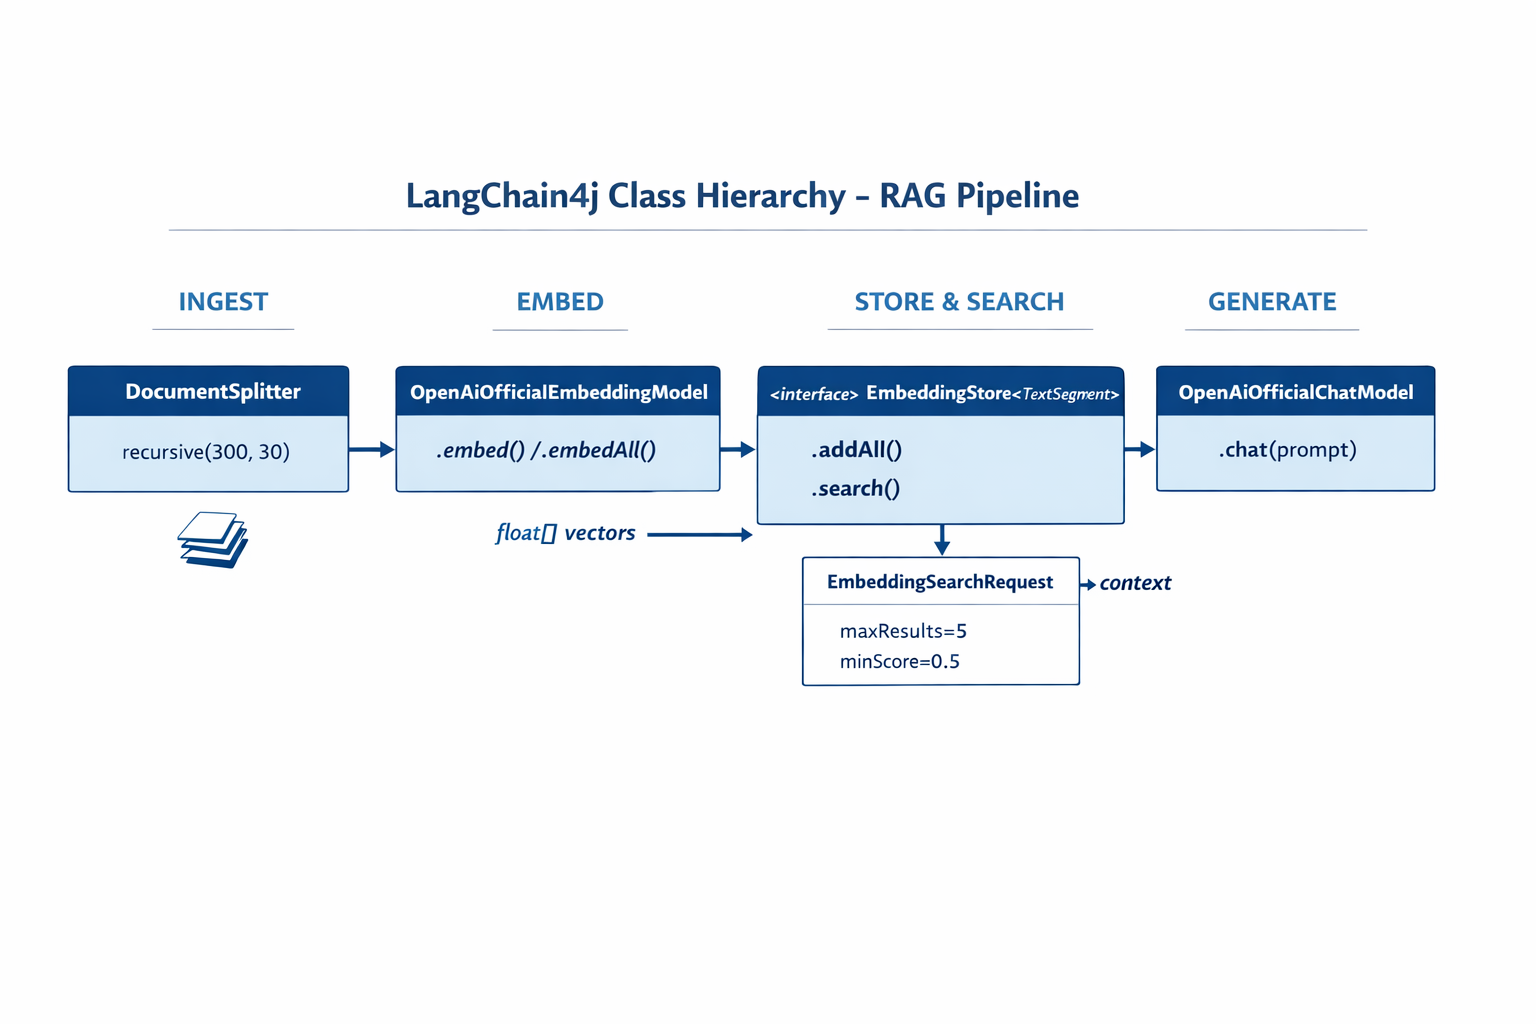
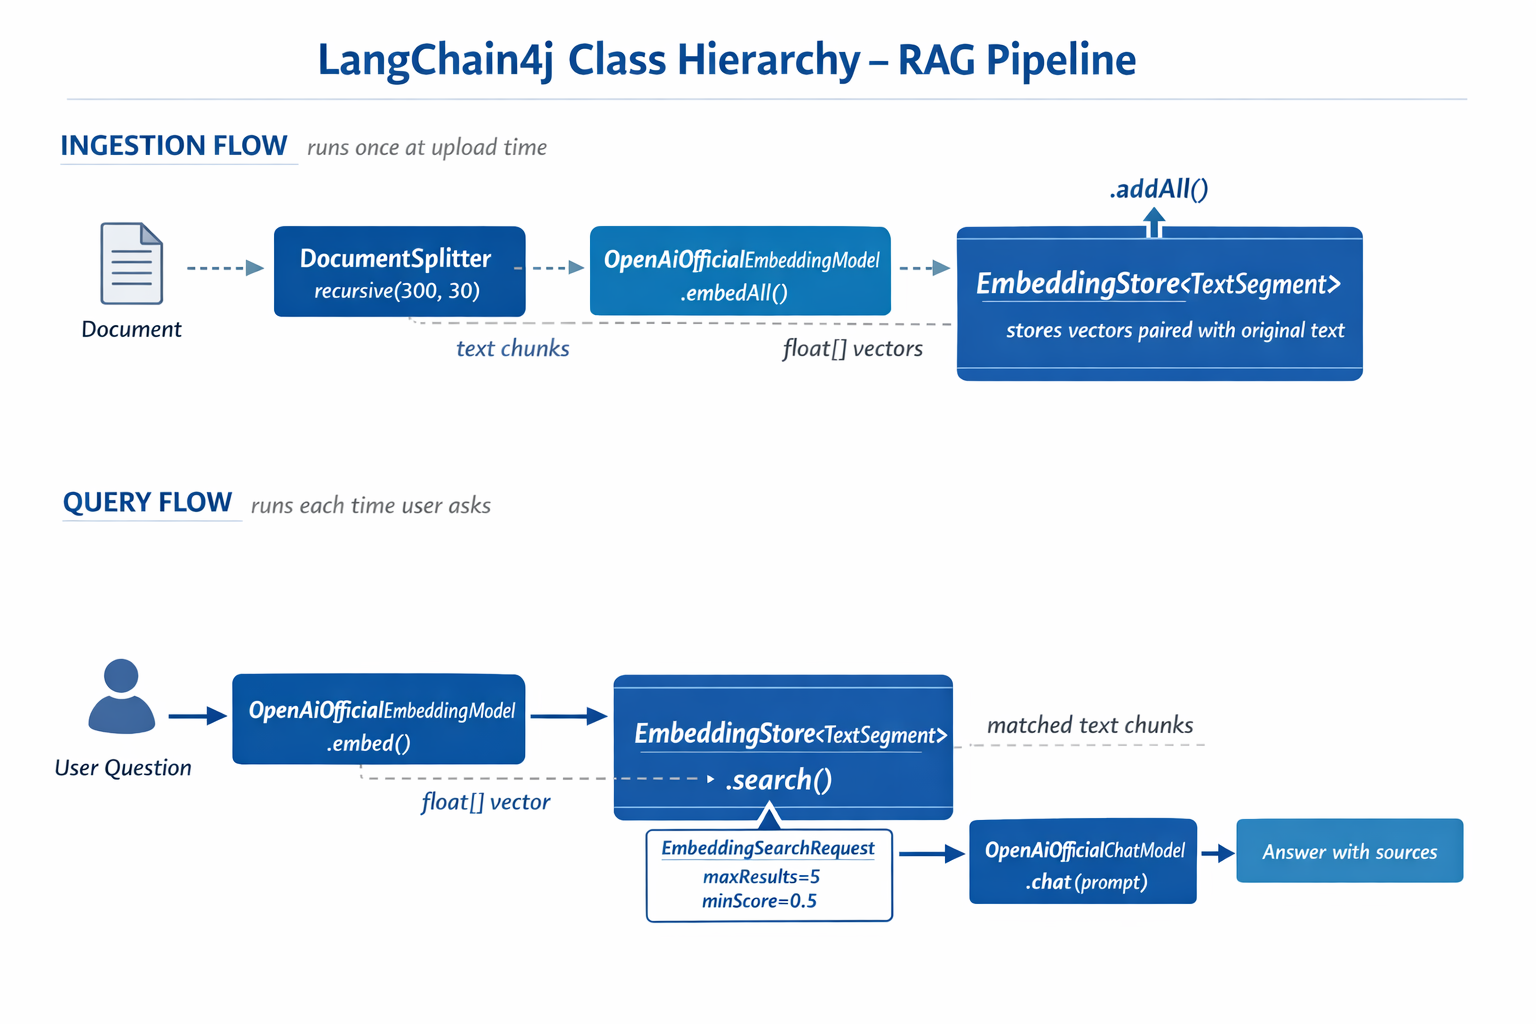
Update RAG module README.md to clarify ingestion and query flows; replace class diagram with updated version

Changed region(s): [[0.0312, 0.125, 0.9688, 0.9062], [0.2188, 0.0312, 0.75, 0.0938], [0.6562, 0.6875, 0.7812, 0.7188]]

diff --git a/03-rag/README.md b/03-rag/README.md
@@ -118,11 +118,11 @@ EmbeddingStore<TextSegment> embeddingStore =
     new InMemoryEmbeddingStore<>();
 ```
 
-The class diagram below shows how these LangChain4j components connect. `OpenAiOfficialEmbeddingModel` converts text into vectors, `EmbeddingStore<TextSegment>` holds the vectors alongside their original `TextSegment` data, and `EmbeddingSearchRequest` controls retrieval parameters like `maxResults` and `minScore`:
+The class diagram below shows the two separate flows in a RAG pipeline and the LangChain4j classes that implement them. The **ingestion flow** (runs once at upload time) splits the document, embeds the chunks, and stores them via `.addAll()`. The **query flow** (runs each time a user asks) embeds the question, searches the store via `.search()`, and passes the matched context to the chat model. Both flows meet at the shared `EmbeddingStore<TextSegment>` interface:
 
 <img src="images/rag-langchain4j-classes.png" alt="LangChain4j RAG Classes" width="800"/>
 
-*This diagram shows the LangChain4j class architecture across four stages: ingest, embed, store & search, and generate.*
+*This diagram shows the two flows in a RAG pipeline — ingestion and query — and how they connect through a shared EmbeddingStore.*
 
 Once embeddings are stored, similar content naturally clusters together in vector space. The visualization below shows how documents about related topics end up as nearby points, which is what makes semantic search possible:
 
